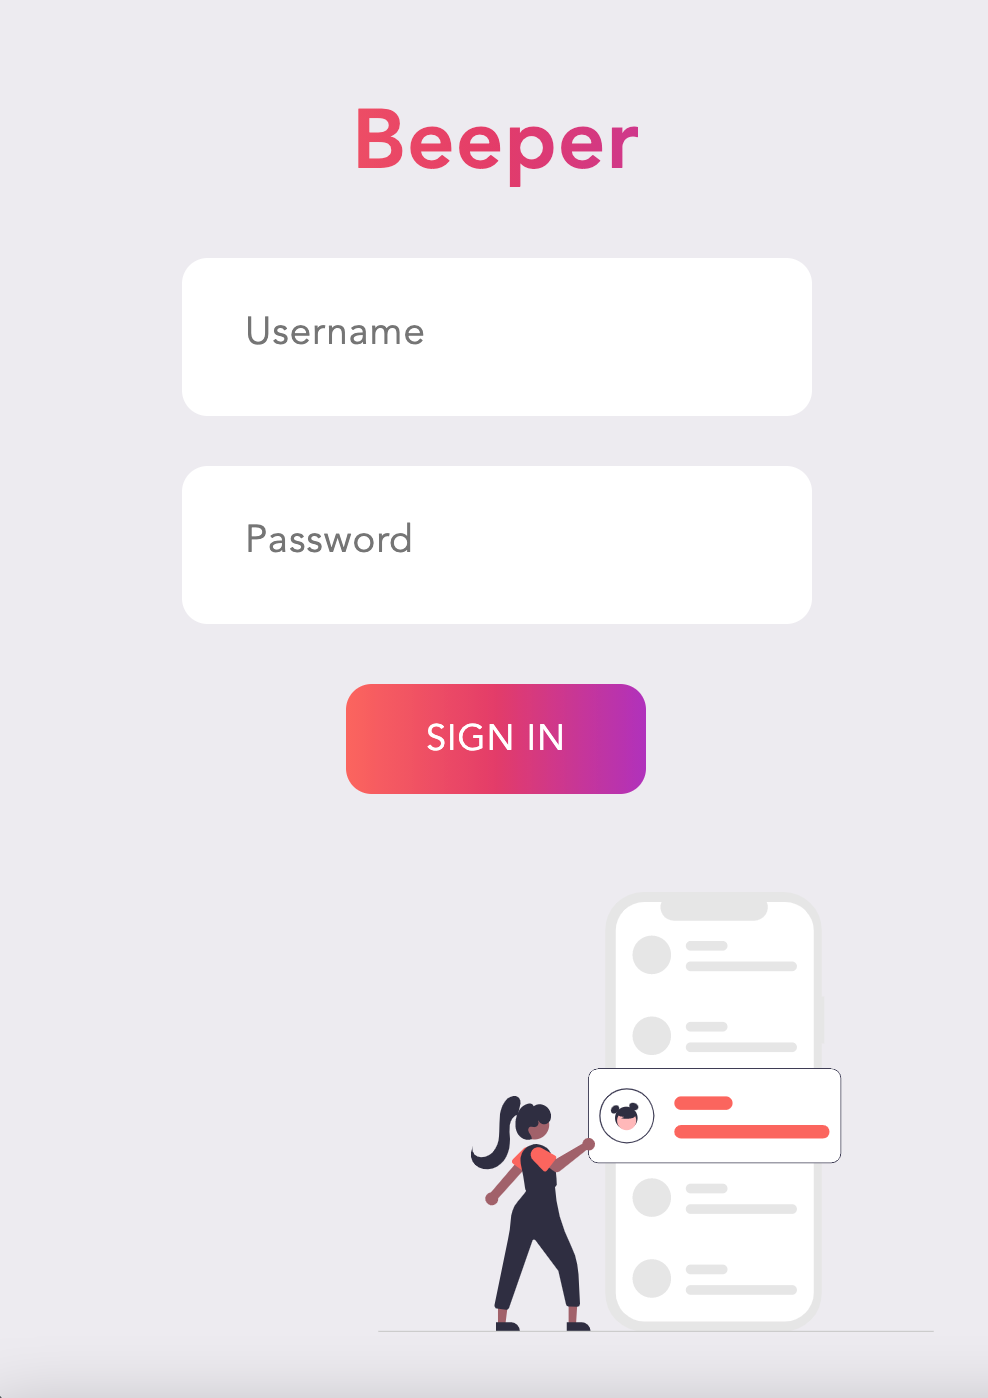
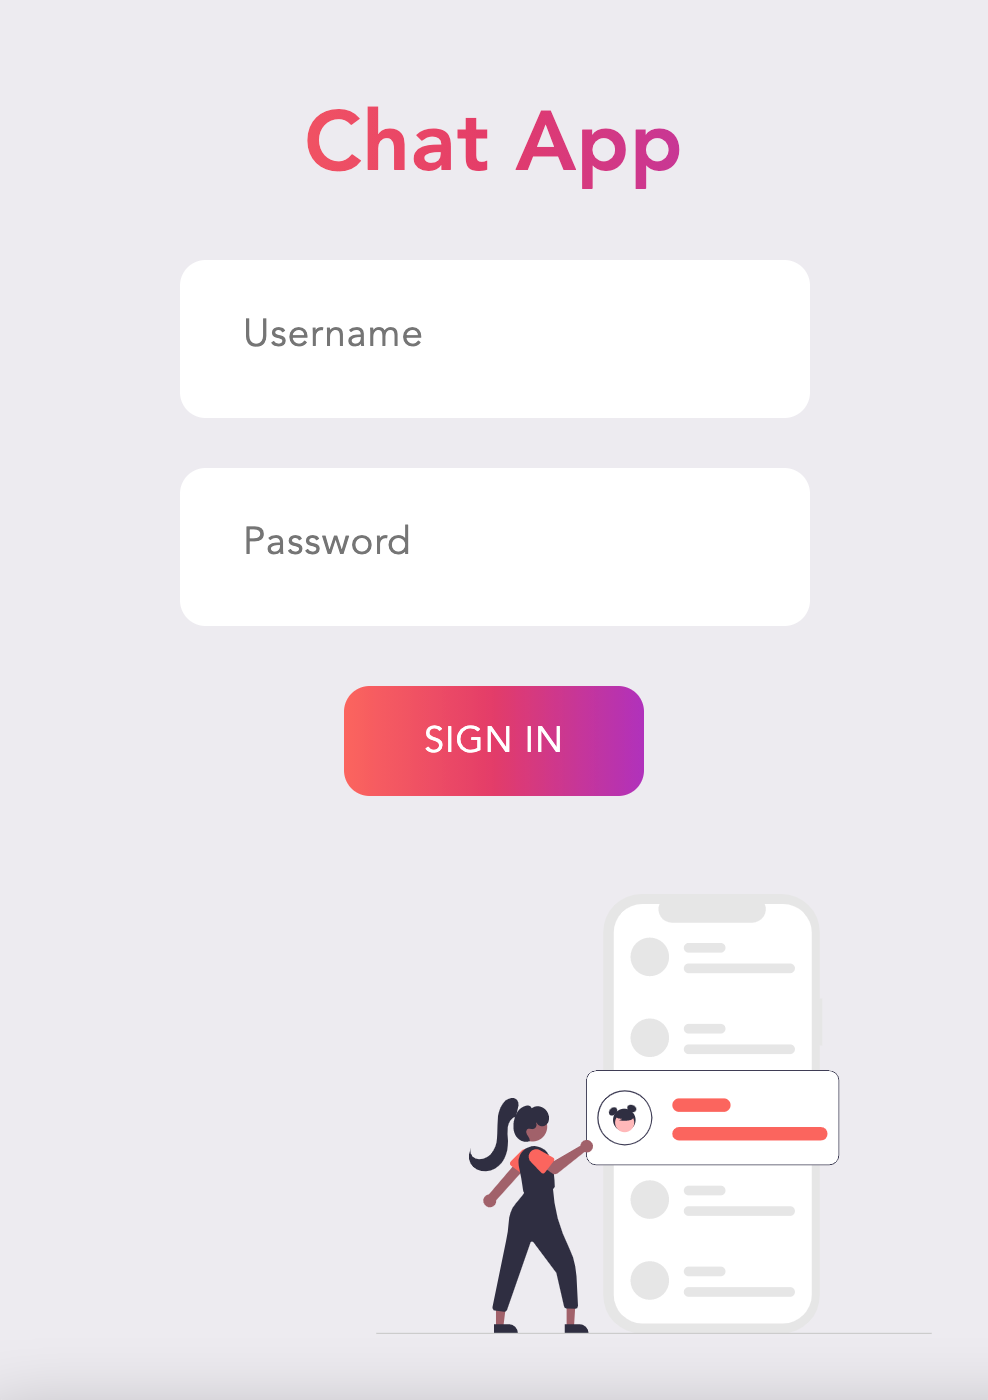
new preview img

diff --git a/src/components/Login.jsx b/src/components/Login.jsx
@@ -32,7 +32,7 @@ const Login = () => {
     return (
         <div className="wrapper">
             <div className="form">
-                <h1 className="title">Beeper</h1>
+                <h1 className="title">Chat App</h1>
                 <form onSubmit={handleSubmit}>
                     <input type="text" value={username} onChange={(e) => setUsername(e.target.value)} className="input" placeholder="Username" required />
                     <input type="password" value={password} onChange={(e) => setPassword(e.target.value)} className="input" placeholder="Password" required />
